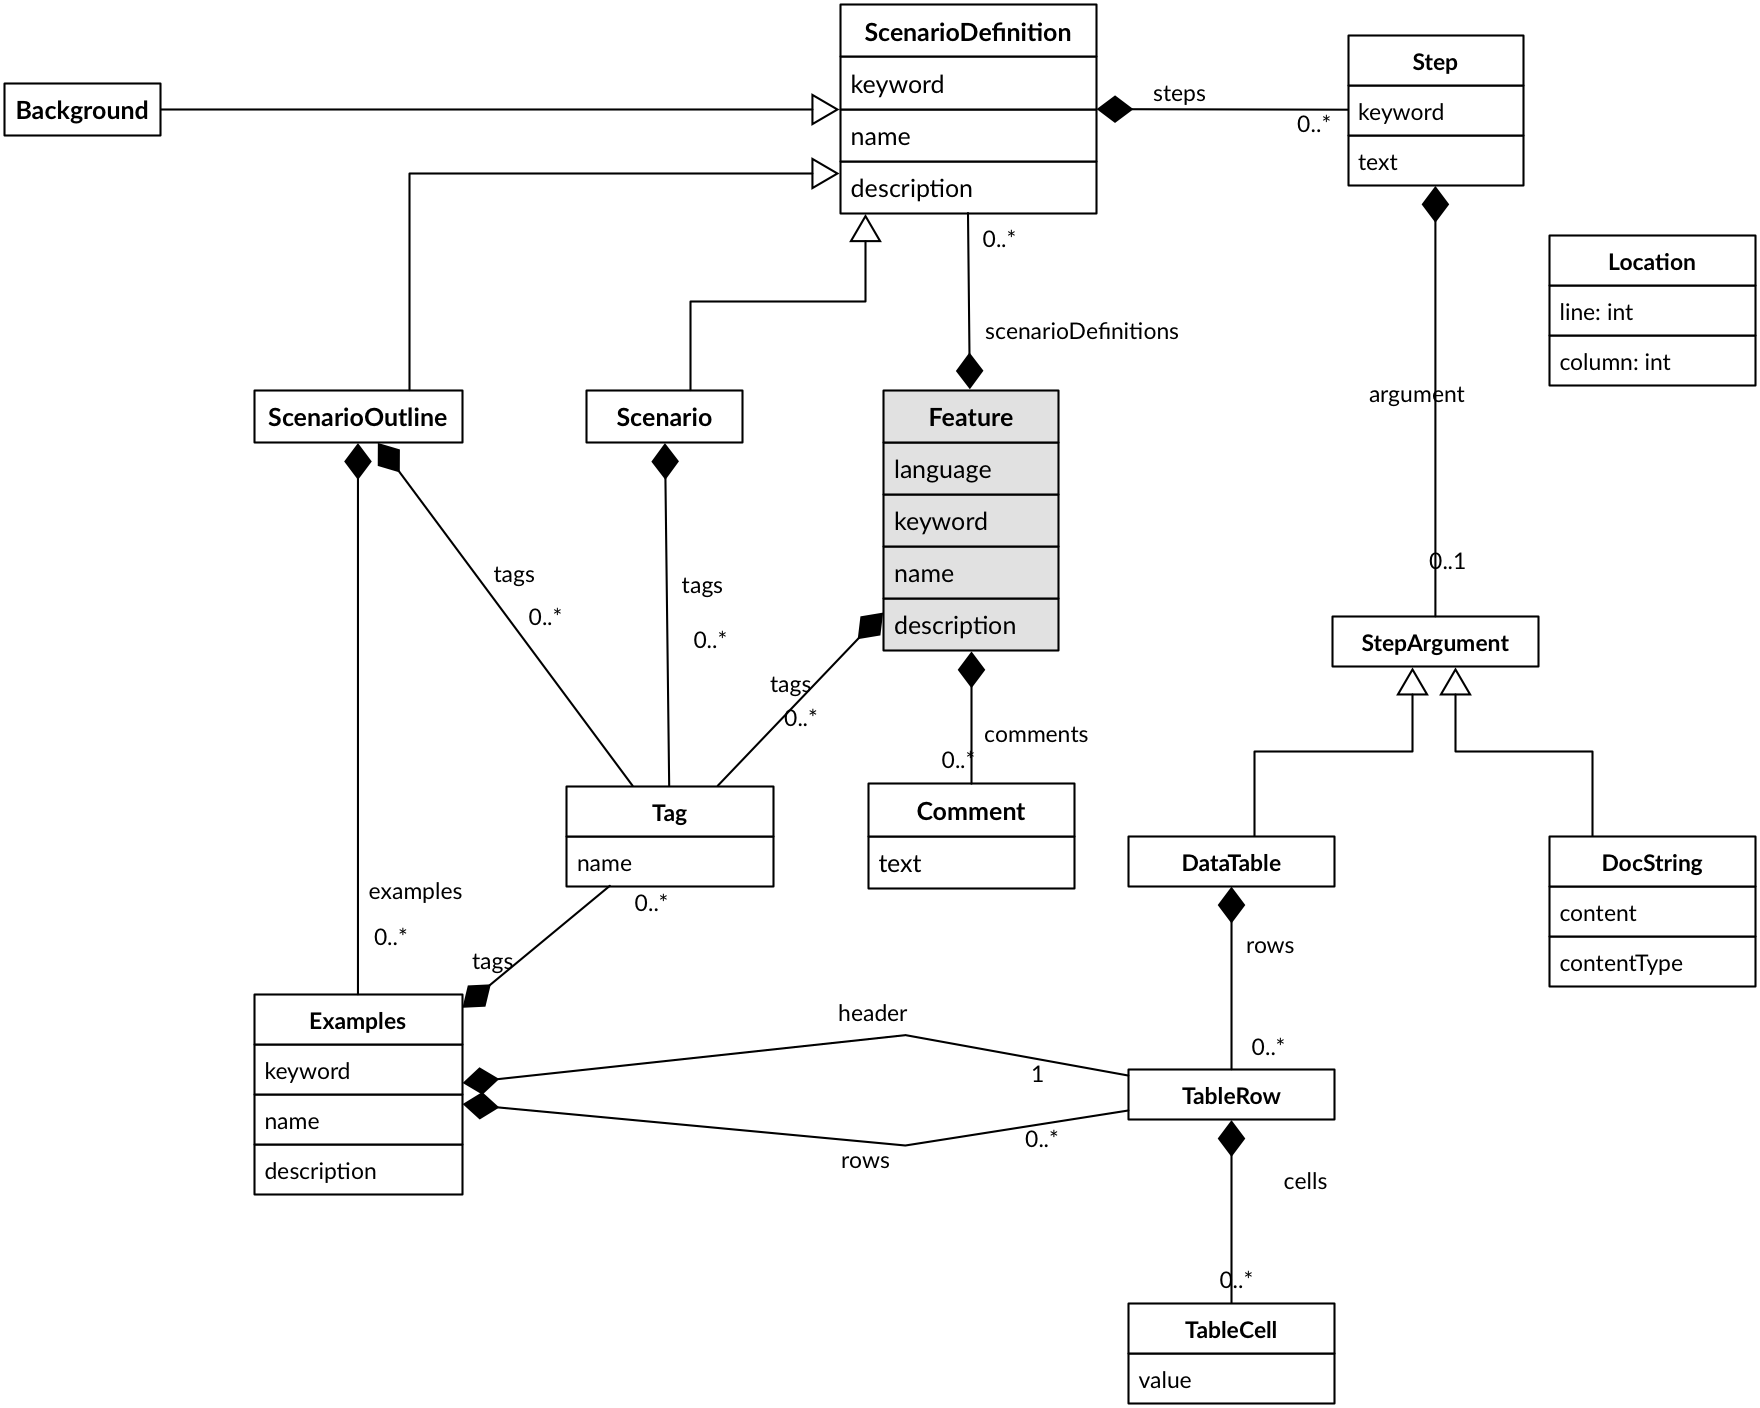
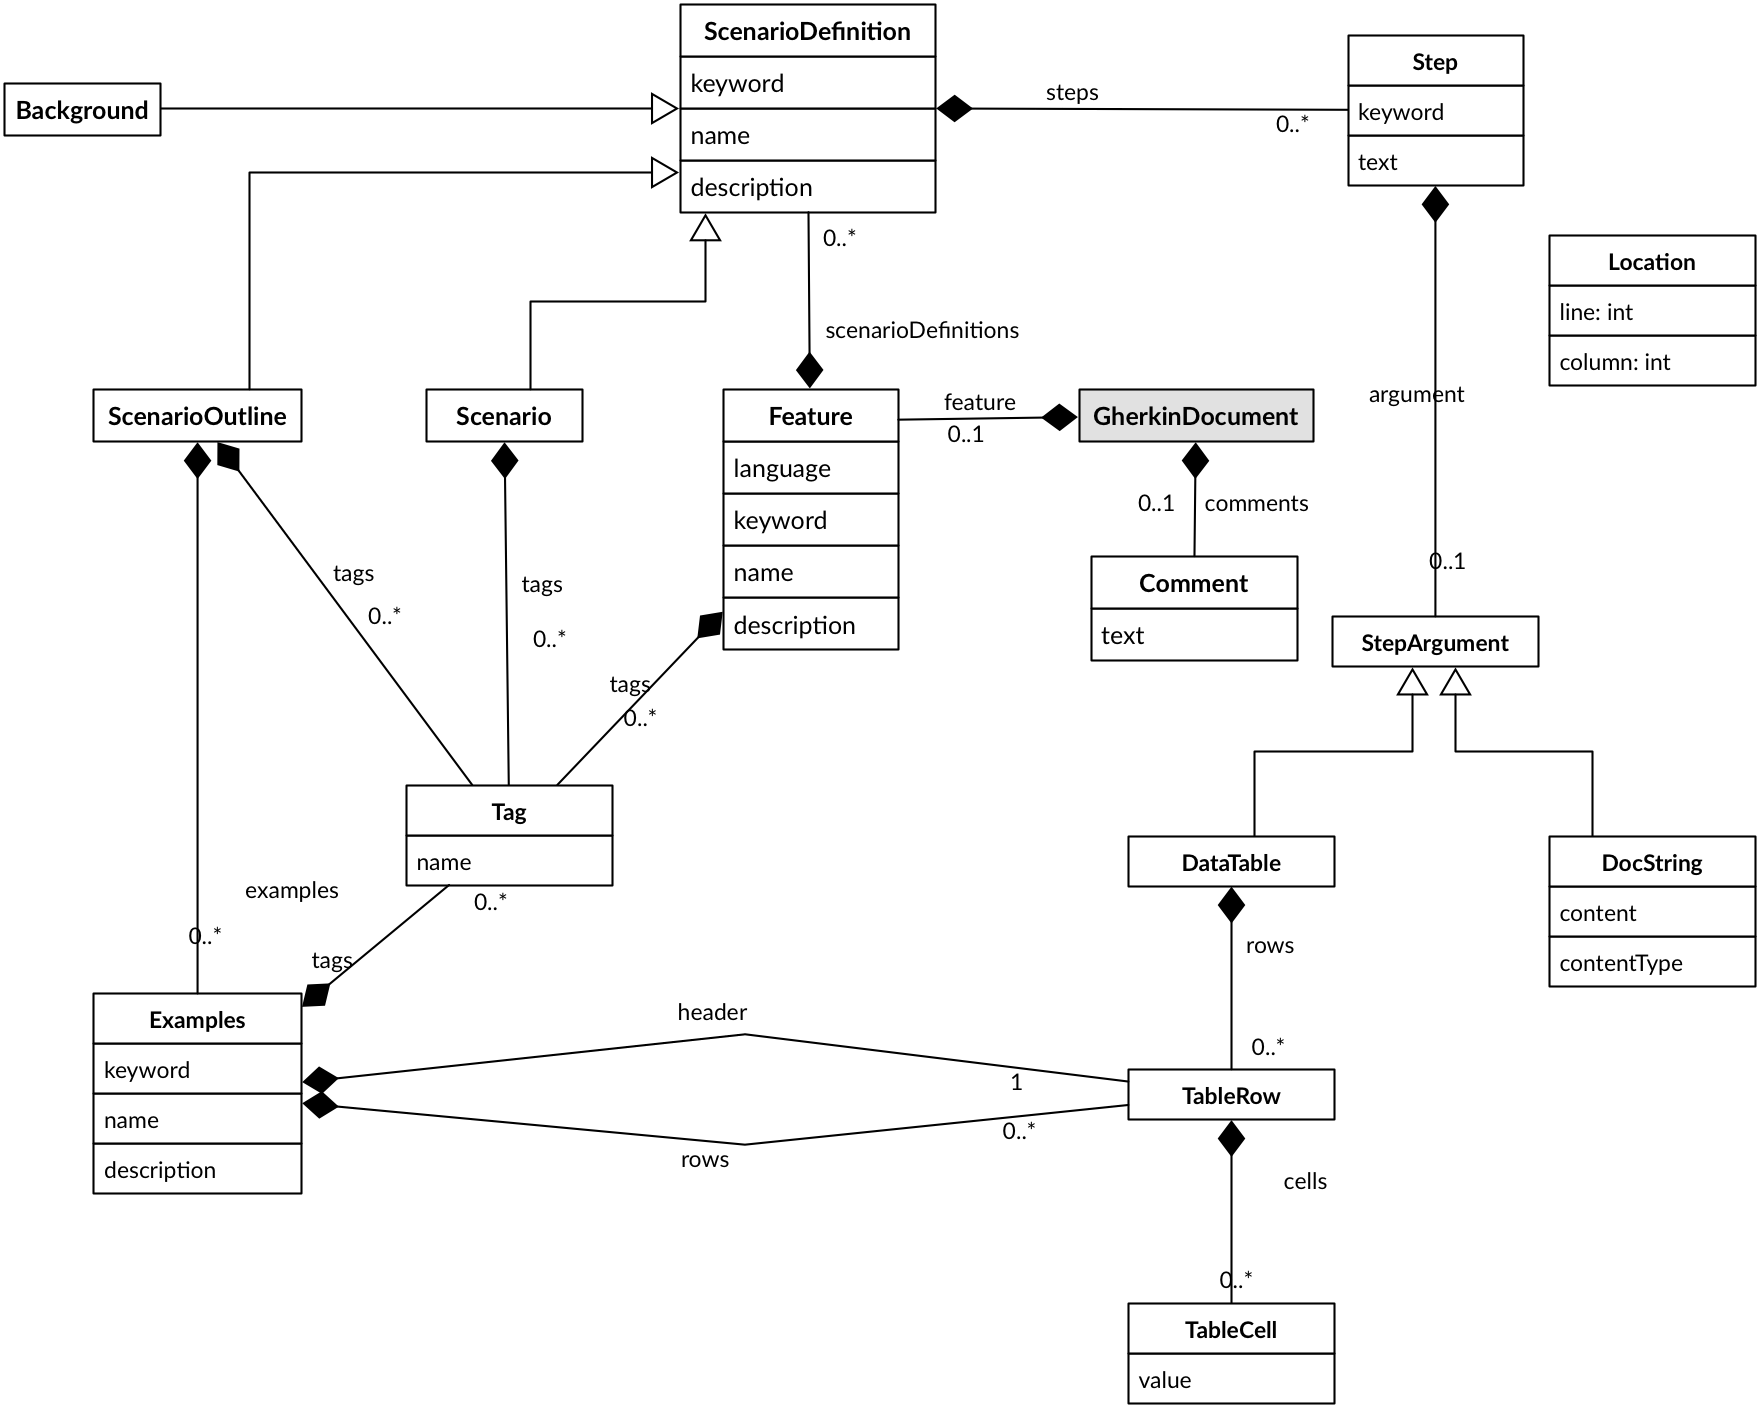
Update docs and variable names

diff --git a/README.md b/README.md
@@ -34,15 +34,15 @@ Our wish-list is (in no particular order):
 
 ```java
 // Java
-Parser<Feature> parser = new Parser<>(new AstBuilder());
-Feature feature = parser.parse("Feature: ...");
-List<Pickle> pickles = new Compiler().compile(feature, "path/to/the.feature")
+Parser<GherkinDocument> parser = new Parser<>(new AstBuilder());
+GherkinDocument gherkinDocument = parser.parse("Feature: ...");
+List<Pickle> pickles = new Compiler().compile(gherkinDocument, "path/to/the.feature")
 ```
 
 ```csharp
 // C#
 var parser = new Parser();
-var feature = parser.Parse("Feature: ...");
+var gherkinDocument = parser.Parse("Feature: ...");
 ```
 
 ```ruby
@@ -50,16 +50,16 @@ var feature = parser.Parse("Feature: ...");
 require 'gherkin/parser'
 require 'gherkin/pickles/compiler'
 parser = Gherkin::Parser.new
-feature = parser.parse("Feature: ...")
-pickles = Gherkin::Pickles::Compiler.new.compile(feature, "path/to/the.feature")
+gherkin_document = parser.parse("Feature: ...")
+pickles = Gherkin::Pickles::Compiler.new.compile(gherkin_document, "path/to/the.feature")
 ```
 
 ```javascript
 // JavaScript
 var Gherkin = require('gherkin');
 var parser = new Gherkin.Parser();
-var feature = parser.parse("Feature: ...");
-var pickles = new Gherkin.Compiler().compile(feature, "path/to/the.feature");
+var gherkinDocument = parser.parse("Feature: ...");
+var pickles = new Gherkin.Compiler().compile(gherkinDocument, "path/to/the.feature");
 ```
 
 ```go
@@ -69,7 +69,7 @@ import (
   "github.com/cucumber/gherkin-go"
 )
 reader := strings.NewReader(`Feature: ...`)
-feature, err := gherkin.ParseFeature(reader)
+gherkinDocument, err := gherkin.ParseGherkinDocument(reader)
 ```
 *Download the package via: `go get github.com/cucumber/gherkin-go`*
 
@@ -79,22 +79,21 @@ from gherkin.parser import Parser
 from gherkin.pickles.compiler import compile
 
 parser = Parser()
-feature = parser.parse("Feature: ...")
-pickles = compile(feature, "path/to/the.feature")
+gherkin_document = parser.parse("Feature: ...")
+pickles = compile(gherkin_document, "path/to/the.feature")
 ```
 
 ```Objective-C
 // Objective-C
 #import "GHParser+Extensions.h"
 
-GHParser * featureParser = [[GHParser alloc] init];
+GHParser * parser = [[GHParser alloc] init];
 NSString * featureFilePath; // Should refer to the place where we can get the content of the feature
 NSString * content = [NSString stringWithContentsOfURL:featureFilePath encoding:NSUTF8StringEncoding error:nil];
 if([content stringByTrimmingCharactersInSet:[NSCharacterSet whitespaceAndNewlineCharacterSet]].length == 0){
       // GHParser will throw an error if you passed empty content... handle this issue first.
 }
-// GHFeature contains all the information found during parsing the feature content
-GHFeature * result = [featureParser parseContent:content];
+GHGherkinDocument * result = [parser parseContent:content];
 ```
 
 ```perl
@@ -103,8 +102,8 @@ use Gherkin::Parser;
 use Gherkin::Pickles::Compiler;
 
 my $parser = Gherkin::Parser->new();
-my $feature = $parser->parse("Feature: ...");
-my $pickles = Gherkin::Pickles::Compiler->compile($feature, "path/to/the.feature");
+my $gherkin_document = $parser->parse("Feature: ...");
+my $pickles = Gherkin::Pickles::Compiler->compile($gherkin_document, "path/to/the.feature");
 ```
 
 ## Table cell escaping
